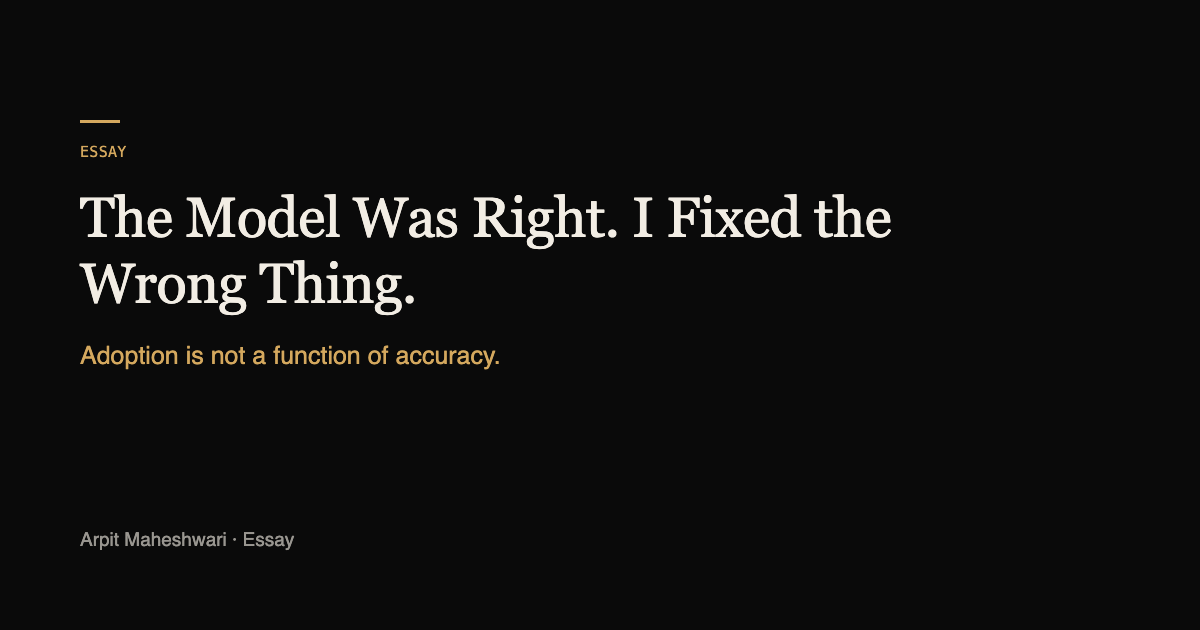
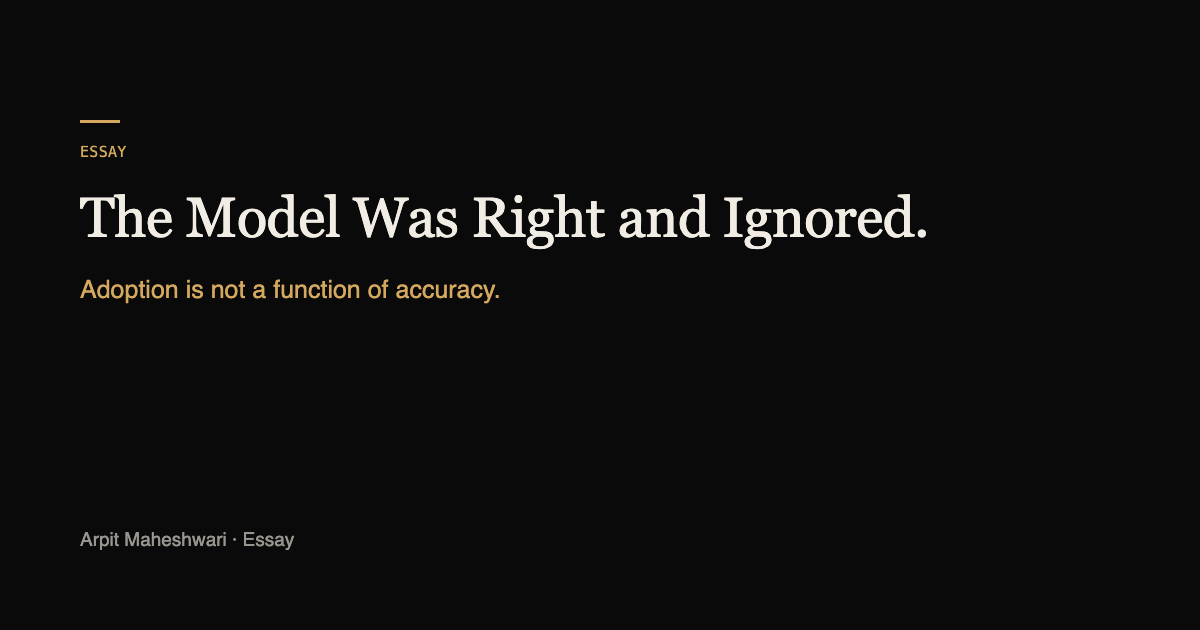
[content] AdTech 'two weeks sharpening the model' miss ruled false by Arpit (2026-11-04) and removed everywhere: case §test, essay retitled 'The Model Was Right and Ignored.', writing index, book, hero door, OG card regenerated

Changed region(s): [[0.4933, 0.3016, 0.7708, 0.3921], [0.0617, 0.3921, 0.4317, 0.5127], [0.0617, 0.5429, 0.4317, 0.6032]]

diff --git a/partials/pages/writing/confidence-scoring.html b/partials/pages/writing/confidence-scoring.html
@@ -1,9 +1,9 @@
 <!--page body_class="p-writing-confidence-scoring" footer_note="No copyright · Design is for all"-->
 <!--head-->  <meta charset="UTF-8">
   <meta name="viewport" content="width=device-width, initial-scale=1.0">
-  <title>The Model Was Right. I Fixed the Wrong Thing. — Arpit Maheshwari</title>
-  <meta name="description" content="A recommendation engine beat the traders it was built for and went unused. The two weeks I lost to the wrong suspect, and the handover change that moved adoption.">
-  <meta property="og:title" content="The Model Was Right. I Fixed the Wrong Thing.">
+  <title>The Model Was Right and Ignored. — Arpit Maheshwari</title>
+  <meta name="description" content="A recommendation engine beat the traders it was built for and went unused. Why accuracy was never the problem, and the handover change that moved adoption.">
+  <meta property="og:title" content="The Model Was Right and Ignored.">
   <meta property="og:description" content="Adoption is not a function of accuracy">
   <meta property="og:url" content="https://arpitmaheshwari.com/writing/confidence-scoring.html">
   <meta property="og:type" content="article">
@@ -21,7 +21,7 @@
   {
     "@context": "https://schema.org",
     "@type": "Article",
-    "headline": "The Model Was Right. I Fixed the Wrong Thing.",
+    "headline": "The Model Was Right and Ignored.",
     "description": "Adoption is not a function of accuracy — it is whether a professional can put their name on the output.",
     "author": {
       "@type": "Person",
@@ -46,9 +46,9 @@
 <div class="page-head" data-ground="bookend">
   <div class="xi-process-004">
     <div class="ph-main">
-    <h1 class="xi-resources-ai-design-checklist-006">The Model Was Right. I Fixed the Wrong Thing.</h1>
+    <h1 class="xi-resources-ai-design-checklist-006">The Model Was Right and Ignored.</h1>
     <p class="xi-resources-ai-design-checklist-007">Essay · May 2026</p>
-    <p class="hand hand-note" aria-hidden="true">the two weeks I&rsquo;d like back</p>
+    <p class="hand hand-note" aria-hidden="true">right, and ignored anyway</p>
     </div>
     <div class="ph-card">
     </div>
@@ -57,11 +57,11 @@
 
 <main id="main" class="section page-bg"><div class="xi-process-004">
 
-  <p class="lead xi-resources-founder-questions-009">In 2019 a recommendation engine I was working on beat the traders it was built for — visibly, on their own numbers. Adoption sat near zero. I spent the next two weeks making it smarter. That was the mistake.</p>
+  <p class="lead xi-resources-founder-questions-009">In 2019 a recommendation engine I was working on beat the traders it was built for — visibly, on their own numbers. Adoption sat near zero. Accuracy was never the problem.</p>
 
-  <h2 class="section-title xi-resources-ai-design-checklist-015" id="i-got-the-diagnosis-wrong-first">I got the diagnosis wrong first</h2>
+  <h2 class="section-title xi-resources-ai-design-checklist-015" id="the-usual-suspect">The usual suspect, and why it is the wrong one</h2>
   <p class="u-body xi-case-studies-adtech-016">The client was the UK&rsquo;s largest out-of-home advertising company, and the engine did something the desk genuinely could not: it read demand and supply across the whole market and proposed where a campaign should run. It outperformed the traders&rsquo; own picks. They ignored it anyway.</p>
-  <p class="u-body xi-case-studies-adtech-016">My first instinct was the engineer&rsquo;s instinct, and it was wrong. If a correct thing is not being used, make it more correct. Two weeks went into sharpening a model that was already sharp. Nothing moved, because accuracy was never the problem. I keep that miss on the case page too, because it is the most useful part of the story: the wrong suspect is expensive, and it looks exactly like diligence while you are chasing it.</p>
+  <p class="u-body xi-case-studies-adtech-016">The usual instinct is the engineer&rsquo;s instinct: if a correct thing is not being used, make it more correct. Here it would have bought nothing, because accuracy was never the problem. The model was already beating the desk. The wrong suspect is expensive, and it looks exactly like diligence while you are chasing it.</p>
   <p class="u-body xi-case-studies-adtech-016">The traders were not being stubborn. They were being rational. A bare recommendation asks for faith, and traders deal in collateral &mdash; their name goes on the booking, and &ldquo;the system said so&rdquo; is not a defence you can carry into a client review. The model was not being out-argued. It was being ignored, which is a different failure and has a different fix.</p>
 
   <div class="xi-writing-confidence-scoring-014">

diff --git a/writing/confidence-scoring.html b/writing/confidence-scoring.html
@@ -3,9 +3,9 @@
 <head>
   <meta charset="UTF-8">
   <meta name="viewport" content="width=device-width, initial-scale=1.0">
-  <title>The Model Was Right. I Fixed the Wrong Thing. — Arpit Maheshwari</title>
-  <meta name="description" content="A recommendation engine beat the traders it was built for and went unused. The two weeks I lost to the wrong suspect, and the handover change that moved adoption.">
-  <meta property="og:title" content="The Model Was Right. I Fixed the Wrong Thing.">
+  <title>The Model Was Right and Ignored. — Arpit Maheshwari</title>
+  <meta name="description" content="A recommendation engine beat the traders it was built for and went unused. Why accuracy was never the problem, and the handover change that moved adoption.">
+  <meta property="og:title" content="The Model Was Right and Ignored.">
   <meta property="og:description" content="Adoption is not a function of accuracy">
   <meta property="og:url" content="https://arpitmaheshwari.com/writing/confidence-scoring.html">
   <meta property="og:type" content="article">
@@ -23,7 +23,7 @@
   {
     "@context": "https://schema.org",
     "@type": "Article",
-    "headline": "The Model Was Right. I Fixed the Wrong Thing.",
+    "headline": "The Model Was Right and Ignored.",
     "description": "Adoption is not a function of accuracy — it is whether a professional can put their name on the output.",
     "author": {
       "@type": "Person",
@@ -67,9 +67,9 @@
 <div class="page-head" data-ground="bookend">
   <div class="xi-process-004">
     <div class="ph-main">
-    <h1 class="xi-resources-ai-design-checklist-006">The Model Was Right. I Fixed the Wrong Thing.</h1>
+    <h1 class="xi-resources-ai-design-checklist-006">The Model Was Right and Ignored.</h1>
     <p class="xi-resources-ai-design-checklist-007">Essay · May 2026</p>
-    <p class="hand hand-note" aria-hidden="true">the two weeks I&rsquo;d like back</p>
+    <p class="hand hand-note" aria-hidden="true">right, and ignored anyway</p>
     </div>
     <div class="ph-card">
     </div>
@@ -78,11 +78,11 @@
 
 <main id="main" class="section page-bg"><div class="xi-process-004">
 
-  <p class="lead xi-resources-founder-questions-009">In 2019 a recommendation engine I was working on beat the traders it was built for — visibly, on their own numbers. Adoption sat near zero. I spent the next two weeks making it smarter. That was the mistake.</p>
+  <p class="lead xi-resources-founder-questions-009">In 2019 a recommendation engine I was working on beat the traders it was built for — visibly, on their own numbers. Adoption sat near zero. Accuracy was never the problem.</p>
 
-  <h2 class="section-title xi-resources-ai-design-checklist-015" id="i-got-the-diagnosis-wrong-first">I got the diagnosis wrong first</h2>
+  <h2 class="section-title xi-resources-ai-design-checklist-015" id="the-usual-suspect">The usual suspect, and why it is the wrong one</h2>
   <p class="u-body xi-case-studies-adtech-016">The client was the UK&rsquo;s largest out-of-home advertising company, and the engine did something the desk genuinely could not: it read demand and supply across the whole market and proposed where a campaign should run. It outperformed the traders&rsquo; own picks. They ignored it anyway.</p>
-  <p class="u-body xi-case-studies-adtech-016">My first instinct was the engineer&rsquo;s instinct, and it was wrong. If a correct thing is not being used, make it more correct. Two weeks went into sharpening a model that was already sharp. Nothing moved, because accuracy was never the problem. I keep that miss on the case page too, because it is the most useful part of the story: the wrong suspect is expensive, and it looks exactly like diligence while you are chasing it.</p>
+  <p class="u-body xi-case-studies-adtech-016">The usual instinct is the engineer&rsquo;s instinct: if a correct thing is not being used, make it more correct. Here it would have bought nothing, because accuracy was never the problem. The model was already beating the desk. The wrong suspect is expensive, and it looks exactly like diligence while you are chasing it.</p>
   <p class="u-body xi-case-studies-adtech-016">The traders were not being stubborn. They were being rational. A bare recommendation asks for faith, and traders deal in collateral &mdash; their name goes on the booking, and &ldquo;the system said so&rdquo; is not a defence you can carry into a client review. The model was not being out-argued. It was being ignored, which is a different failure and has a different fix.</p>
 
   <div class="xi-writing-confidence-scoring-014">

diff --git a/case-studies/adtech.html b/case-studies/adtech.html
@@ -114,7 +114,7 @@
       <p class="vslip-sub">The full case is folded below &mdash; every line links into it and opens it.</p>
       <dl class="vslip-rows">
         <div><dt>The outcome</dt><dd>Campaign planning <b>2 wks &rarr; 3 hrs</b>, <b>+&pound;69k</b> average media-value uplift per client. Public record: <b>&lt;5% &rarr; 100%</b> of UK bookings through the platform in a year. <a href="#evidence">the evidence&nbsp;&rarr;</a></dd></div>
-        <div><dt>The call</dt><dd>The model was right and ignored. I stopped sharpening it and changed what it handed over: a ranked list became a <b>full plan</b> &mdash; KPIs attached, one click to customise, every edit feeding next week&rsquo;s calls. <a href="#test">the test&nbsp;&rarr;</a></dd></div>
+        <div><dt>The call</dt><dd>The model was right and ignored. I left the model alone and changed what it handed over: a ranked list became a <b>full plan</b> &mdash; KPIs attached, one click to customise, every edit feeding next week&rsquo;s calls. <a href="#test">the test&nbsp;&rarr;</a></dd></div>
         <div><dt>My part</dt><dd><b>Product &amp; Design Lead, five years</b> on this one platform &mdash; product definition and design across six systems, in a 50+ distributed team. <a href="#stakes">the seat&nbsp;&rarr;</a></dd></div>
         <div><dt>Where it breaks</dt><dd>Argue-back &mdash; letting the expert reshape the plan &mdash; needs an <b>accountable expert</b> on the other side, and can&rsquo;t rescue a weak model. If either fails in your product, don&rsquo;t copy this. <a href="#breaks">the boundary&nbsp;&rarr;</a></dd></div>
       </dl>
@@ -202,7 +202,7 @@
 </figure>
     <p class="vg-cap">Plan A, as WALL-E returns it — the brief above, the splits below. Screens white-labelled; illustrative figures.</p>
   </div>
-  <p class="lbl-cap xi-process-012">One principle · proven at the UK’s largest out-of-home advertising company — £400M annual revenue · wrong turn included</p>
+  <p class="lbl-cap xi-process-012">One principle · proven at the UK’s largest out-of-home advertising company — £400M annual revenue</p>
 
   <!-- §01 — THE CLIENT -->
   <details class="deep-read" id="full-case">
@@ -265,8 +265,8 @@
 
   <!-- §02 — THE MYTH -->
   <section class="xi-case-studies-adtech-014" id="test">
-    <h2 class="section-title xi-case-studies-adtech-015">The test began with me failing it: two weeks spent sharpening a model that was already sharp.</h2>
-    <p class="t-body xi-case-studies-adtech-016">The recommendation engine outperformed the buyers, visibly. Adoption sat near zero anyway. I got the diagnosis wrong first — I spent two weeks trying to make the model smarter before admitting it was the wrong suspect. The traders weren’t being stubborn; they were being rational. A bare recommendation asks for faith, and traders deal in collateral.</p>
+    <h2 class="section-title xi-case-studies-adtech-015">The test: the engine beat the buyers on their own numbers, and the desk ignored it anyway.</h2>
+    <p class="t-body xi-case-studies-adtech-016">The recommendation engine outperformed the buyers, visibly. Adoption sat near zero anyway. The traders weren’t being stubborn; they were being rational. A bare recommendation asks for faith, and traders deal in collateral.</p>
     <blockquote class="xi-case-studies-adtech-017"><p class="xi-case-studies-adtech-018">The model didn’t need to be more right — it needed to give the traders something to bet on.</p></blockquote>
   </section>
 

diff --git a/partials/pages/case-studies/adtech.html b/partials/pages/case-studies/adtech.html
@@ -93,7 +93,7 @@
       <p class="vslip-sub">The full case is folded below &mdash; every line links into it and opens it.</p>
       <dl class="vslip-rows">
         <div><dt>The outcome</dt><dd>Campaign planning <b>2 wks &rarr; 3 hrs</b>, <b>+&pound;69k</b> average media-value uplift per client. Public record: <b>&lt;5% &rarr; 100%</b> of UK bookings through the platform in a year. <a href="#evidence">the evidence&nbsp;&rarr;</a></dd></div>
-        <div><dt>The call</dt><dd>The model was right and ignored. I stopped sharpening it and changed what it handed over: a ranked list became a <b>full plan</b> &mdash; KPIs attached, one click to customise, every edit feeding next week&rsquo;s calls. <a href="#test">the test&nbsp;&rarr;</a></dd></div>
+        <div><dt>The call</dt><dd>The model was right and ignored. I left the model alone and changed what it handed over: a ranked list became a <b>full plan</b> &mdash; KPIs attached, one click to customise, every edit feeding next week&rsquo;s calls. <a href="#test">the test&nbsp;&rarr;</a></dd></div>
         <div><dt>My part</dt><dd><b>Product &amp; Design Lead, five years</b> on this one platform &mdash; product definition and design across six systems, in a 50+ distributed team. <a href="#stakes">the seat&nbsp;&rarr;</a></dd></div>
         <div><dt>Where it breaks</dt><dd>Argue-back &mdash; letting the expert reshape the plan &mdash; needs an <b>accountable expert</b> on the other side, and can&rsquo;t rescue a weak model. If either fails in your product, don&rsquo;t copy this. <a href="#breaks">the boundary&nbsp;&rarr;</a></dd></div>
       </dl>
@@ -181,7 +181,7 @@
 </figure>
     <p class="vg-cap">Plan A, as WALL-E returns it — the brief above, the splits below. Screens white-labelled; illustrative figures.</p>
   </div>
-  <p class="lbl-cap xi-process-012">One principle · proven at the UK’s largest out-of-home advertising company — £400M annual revenue · wrong turn included</p>
+  <p class="lbl-cap xi-process-012">One principle · proven at the UK’s largest out-of-home advertising company — £400M annual revenue</p>
 
   <!-- §01 — THE CLIENT -->
   <details class="deep-read" id="full-case">
@@ -244,8 +244,8 @@
 
   <!-- §02 — THE MYTH -->
   <section class="xi-case-studies-adtech-014" id="test">
-    <h2 class="section-title xi-case-studies-adtech-015">The test began with me failing it: two weeks spent sharpening a model that was already sharp.</h2>
-    <p class="t-body xi-case-studies-adtech-016">The recommendation engine outperformed the buyers, visibly. Adoption sat near zero anyway. I got the diagnosis wrong first — I spent two weeks trying to make the model smarter before admitting it was the wrong suspect. The traders weren’t being stubborn; they were being rational. A bare recommendation asks for faith, and traders deal in collateral.</p>
+    <h2 class="section-title xi-case-studies-adtech-015">The test: the engine beat the buyers on their own numbers, and the desk ignored it anyway.</h2>
+    <p class="t-body xi-case-studies-adtech-016">The recommendation engine outperformed the buyers, visibly. Adoption sat near zero anyway. The traders weren’t being stubborn; they were being rational. A bare recommendation asks for faith, and traders deal in collateral.</p>
     <blockquote class="xi-case-studies-adtech-017"><p class="xi-case-studies-adtech-018">The model didn’t need to be more right — it needed to give the traders something to bet on.</p></blockquote>
   </section>
 

diff --git a/book/index.html b/book/index.html
@@ -451,7 +451,7 @@
 <p>One idea per issue, on getting humans to act on machines. The fastest way to know how I think before you hire me.</p>
 <p>A loose thread runs through all four: what happens when a system that behaves like a colleague still needs to be governed like software &mdash; the confidence to let it act, and the discipline to check it did.</p>
 <ul class='nsb-writing'>
-<li><strong>The Model Was Right. I Fixed the Wrong Thing.</strong> — 2026 · Essay<br>A recommendation engine that beat the traders it was built for — and sat unused. Two weeks lost to the wrong suspect.</li>
+<li><strong>The Model Was Right and Ignored.</strong> — 2026 · Essay<br>A recommendation engine that beat the traders it was built for — and sat unused. Accuracy was never the problem.</li>
 <li><strong>Design the Failure State First</strong> — 2026 · Essay<br>Every model is wrong some of the time, and most interfaces have nothing to say at that moment.</li>
 <li><strong>The Explainability Layer: Making AI Legible</strong> — 2026 · Essay<br>An accurate risk score the analysts audited by hand anyway, because a number with no sources is homework.</li>
 <li><strong>Human-in-the-Loop: When to Ask, When to Override</strong> — 2026 · Essay<br>Ask for a person’s judgement on everything and you get it on nothing. Where three shipped products put their one ask.</li>
@@ -491,7 +491,7 @@
 <script defer src="./vendor/react.production.min.js" data-cfasync="false"></script>
 <script defer src="./vendor/react-dom.production.min.js" data-cfasync="false"></script>
 <script src="monograph-icons.js" defer data-cfasync="false"></script>
-<script src="portfolio.js?v=6176b051" defer data-cfasync="false"></script>
+<script src="portfolio.js?v=894bdde7" defer data-cfasync="false"></script>
 <script defer src="../dyslexia.js" data-cfasync="false"></script>
   <script defer src="../attention.js?v=cc700788" data-cfasync="false"></script>
 <script defer src="../clarity.js?v=9e4df576" data-cfasync="false"></script>

diff --git a/index.html b/index.html
@@ -212,7 +212,7 @@ document.documentElement.classList.add('vg-js');
       <h1 id="h-hero" class="h1-said">Users forgive a model for being wrong; <span class="grad">never for bluffing.</span></h1>
       <p class="h-attr"><a href="./patterns/ai-failure-states.html" data-cta="pattern-failure-states" data-location="hero">AI Failure States &mdash; one of eight patterns, all in production<span class="visually-hidden"> (in the pattern library)</span>&nbsp;&rarr;</a></p>
       <p class="h-stake">I owned the product definition and the roadmap across six systems, then shipped the front-end &mdash; <b>2 wks &rarr; 3 hrs</b> on campaign planning, per campaign, vs the 2-week manual baseline.</p>
-      <p class="h-prov">Talon Outdoor &middot; 2019&ndash;2025 &middot; <a class="h-go" href="./case-studies/adtech.html#test" data-cta="adtech-miss" data-location="hero">the miss and the fix<span class="visually-hidden"> &mdash; in the AdTech case</span>&nbsp;&rarr;</a></p>
+      <p class="h-prov">Talon Outdoor &middot; 2019&ndash;2025 &middot; <a class="h-go" href="./case-studies/adtech.html#test" data-cta="adtech-miss" data-location="hero">the call and the fix<span class="visually-hidden"> &mdash; in the AdTech case</span>&nbsp;&rarr;</a></p>
       <div class="ctas">
         <a class="cta cta--linkedin" href="https://www.linkedin.com/in/arpitmaheshwariprofile/" target="_blank" rel="noopener noreferrer" data-cta="linkedin-connect" data-location="hero">Connect<span class="visually-hidden"> on LinkedIn (opens in a new tab)</span></a>
         <span class="cta-status"><i aria-hidden="true"></i>full-time, contract or fractional &middot; remote from India</span>

diff --git a/partials/pages/index.html b/partials/pages/index.html
@@ -191,7 +191,7 @@ document.documentElement.classList.add('vg-js');
       <h1 id="h-hero" class="h1-said">Users forgive a model for being wrong; <span class="grad">never for bluffing.</span></h1>
       <p class="h-attr"><a href="./patterns/ai-failure-states.html" data-cta="pattern-failure-states" data-location="hero">AI Failure States &mdash; one of eight patterns, all in production<span class="visually-hidden"> (in the pattern library)</span>&nbsp;&rarr;</a></p>
       <p class="h-stake">I owned the product definition and the roadmap across six systems, then shipped the front-end &mdash; <b>2 wks &rarr; 3 hrs</b> on campaign planning, per campaign, vs the 2-week manual baseline.</p>
-      <p class="h-prov">Talon Outdoor &middot; 2019&ndash;2025 &middot; <a class="h-go" href="./case-studies/adtech.html#test" data-cta="adtech-miss" data-location="hero">the miss and the fix<span class="visually-hidden"> &mdash; in the AdTech case</span>&nbsp;&rarr;</a></p>
+      <p class="h-prov">Talon Outdoor &middot; 2019&ndash;2025 &middot; <a class="h-go" href="./case-studies/adtech.html#test" data-cta="adtech-miss" data-location="hero">the call and the fix<span class="visually-hidden"> &mdash; in the AdTech case</span>&nbsp;&rarr;</a></p>
       <div class="ctas">
         <a class="cta cta--linkedin" href="https://www.linkedin.com/in/arpitmaheshwariprofile/" target="_blank" rel="noopener noreferrer" data-cta="linkedin-connect" data-location="hero">Connect<span class="visually-hidden"> on LinkedIn (opens in a new tab)</span></a>
         <span class="cta-status"><i aria-hidden="true"></i>full-time, contract or fractional &middot; remote from India</span>

diff --git a/partials/pages/writing/index.html b/partials/pages/writing/index.html
@@ -48,8 +48,8 @@
 
     <a class="card-p32 xi-resources-008 hv-writing-1" href="./confidence-scoring.html" data-cta="essay" data-location="writing-list" data-tint>
       <div class="eyebrow xi-writing-013">Adoption · AdTech</div>
-      <h2 class="card-title xi-writing-013">The Model Was Right. I Fixed the Wrong Thing.</h2>
-      <p class="t-sans-ui-muted xi-process-005">A recommendation engine that beat the traders it was built for — and sat unused. Two weeks lost to the wrong suspect, and the handover change that moved adoption without touching the model.</p>
+      <h2 class="card-title xi-writing-013">The Model Was Right and Ignored.</h2>
+      <p class="t-sans-ui-muted xi-process-005">A recommendation engine that beat the traders it was built for — and sat unused. Accuracy was never the problem, and the handover change that moved adoption without touching the model.</p>
       <div class="lbl-cap-plain">Essay →</div>
     </a>
 

diff --git a/writing/index.html b/writing/index.html
@@ -69,8 +69,8 @@
 
     <a class="card-p32 xi-resources-008 hv-writing-1" href="./confidence-scoring.html" data-cta="essay" data-location="writing-list" data-tint>
       <div class="eyebrow xi-writing-013">Adoption · AdTech</div>
-      <h2 class="card-title xi-writing-013">The Model Was Right. I Fixed the Wrong Thing.</h2>
-      <p class="t-sans-ui-muted xi-process-005">A recommendation engine that beat the traders it was built for — and sat unused. Two weeks lost to the wrong suspect, and the handover change that moved adoption without touching the model.</p>
+      <h2 class="card-title xi-writing-013">The Model Was Right and Ignored.</h2>
+      <p class="t-sans-ui-muted xi-process-005">A recommendation engine that beat the traders it was built for — and sat unused. Accuracy was never the problem, and the handover change that moved adoption without touching the model.</p>
       <div class="lbl-cap-plain">Essay →</div>
     </a>
 

diff --git a/book/portfolio.js b/book/portfolio.js
@@ -104,8 +104,8 @@ const PATTERNS = [{
 }];
 const WRITING = [{
   d: "2026 · Essay",
-  h: "The Model Was Right. I Fixed the Wrong Thing.",
-  p: "A recommendation engine that beat the traders it was built for — and sat unused. Two weeks lost to the wrong suspect."
+  h: "The Model Was Right and Ignored.",
+  p: "A recommendation engine that beat the traders it was built for — and sat unused. Accuracy was never the problem."
 }, {
   d: "2026 · Essay",
   h: "Design the Failure State First",

diff --git a/tools/generate-og-cards.py b/tools/generate-og-cards.py
@@ -74,7 +74,7 @@ REG = [
     #     story and its card still carried the retired "How I Design Confidence Scores"
     #     headline. A card outside REG does not change when its page does. The other three
     #     essay cards (explainability, failure-states, human-in-loop) are still unmanaged.
-    ("confidence-scoring-og.png", "ESSAY", "The Model Was Right. I Fixed the Wrong Thing.",
+    ("confidence-scoring-og.png", "ESSAY", "The Model Was Right and Ignored.",
      "Adoption is not a function of accuracy.", "Arpit Maheshwari \u00b7 Essay"),
     # The other three essay cards, brought in 2026-08-30. All were hand-made, all were
     # labelled "DESIGN PATTERN" on an essay, and failure-states carried a subtitle its own
